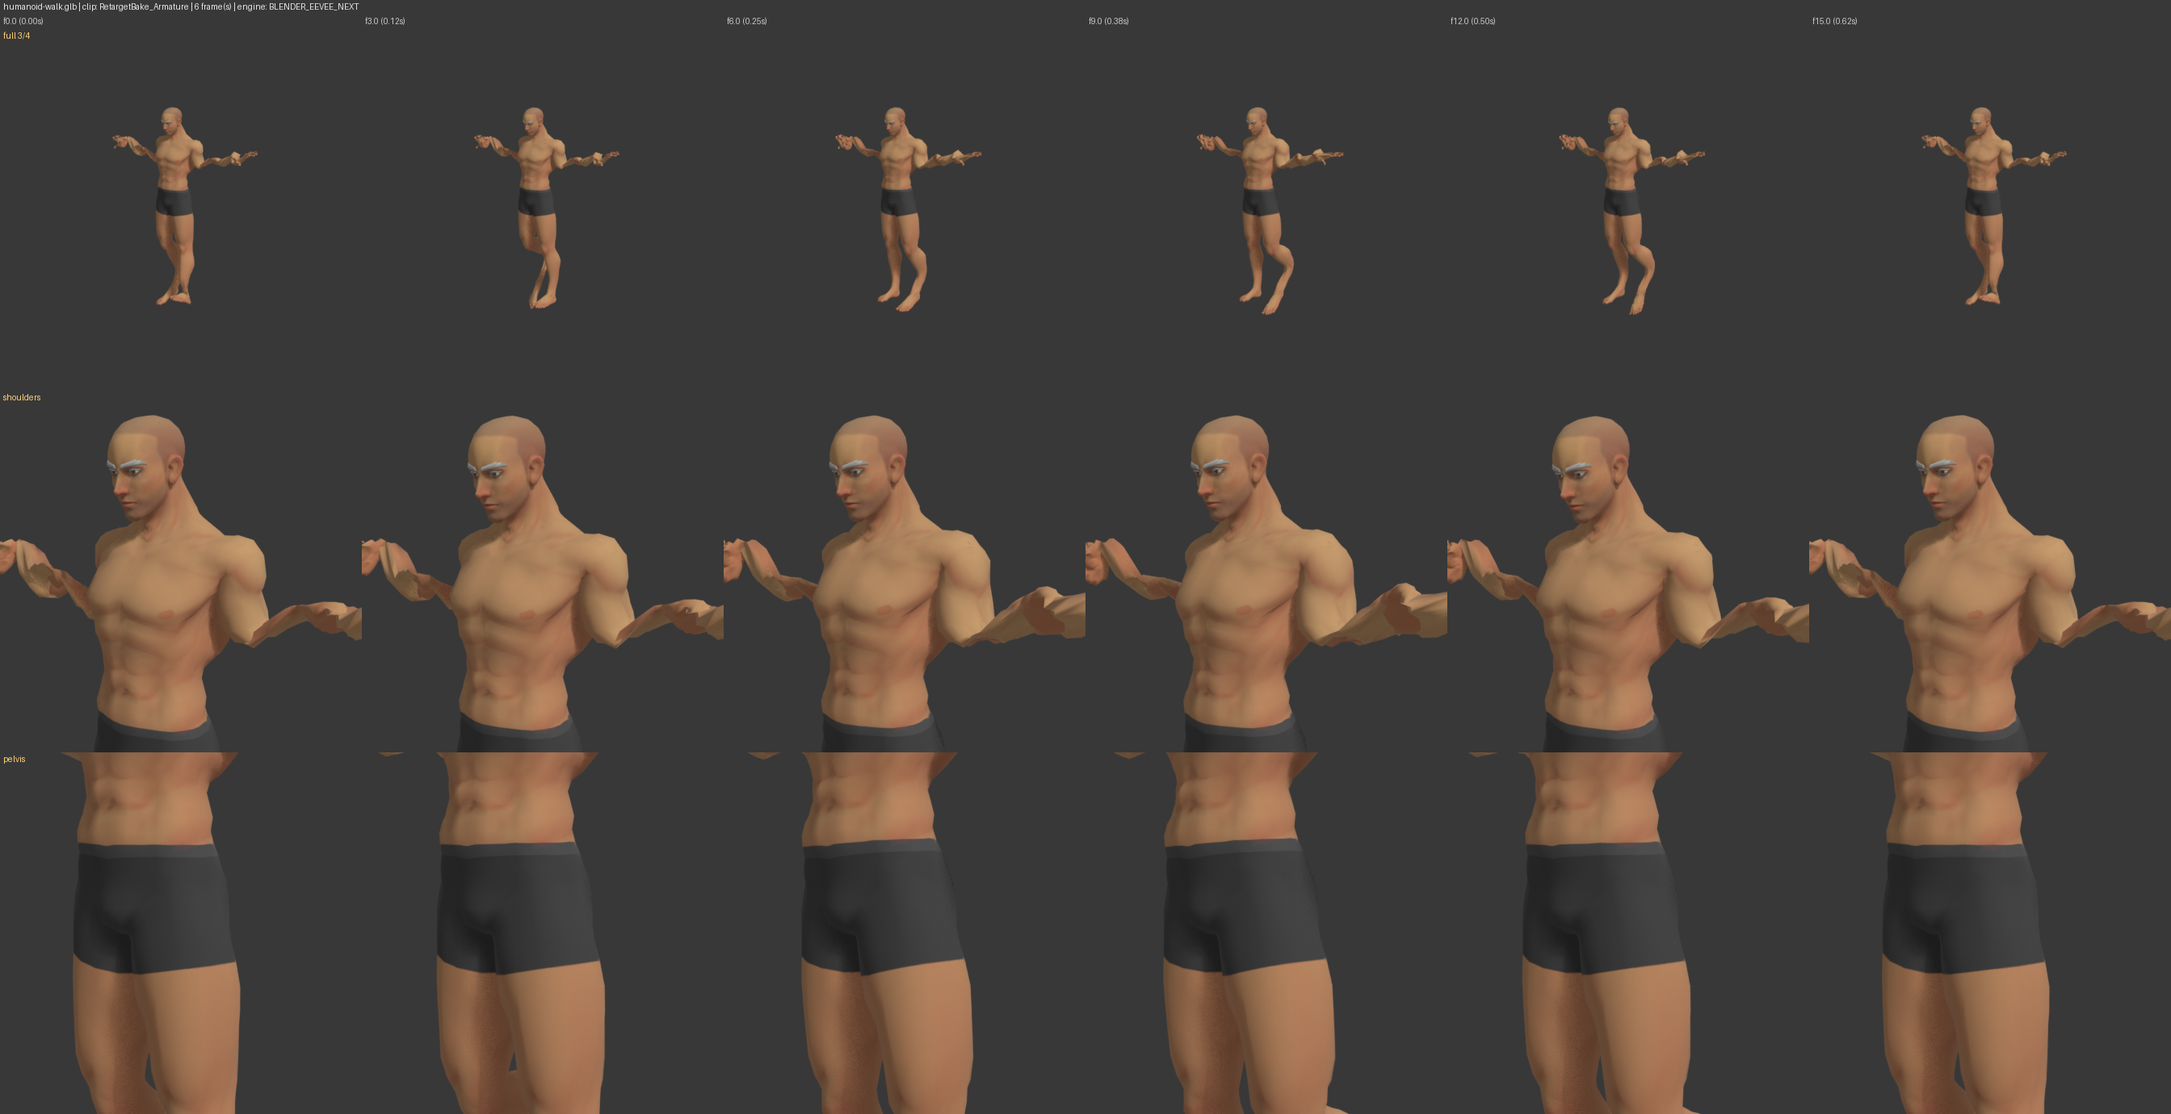
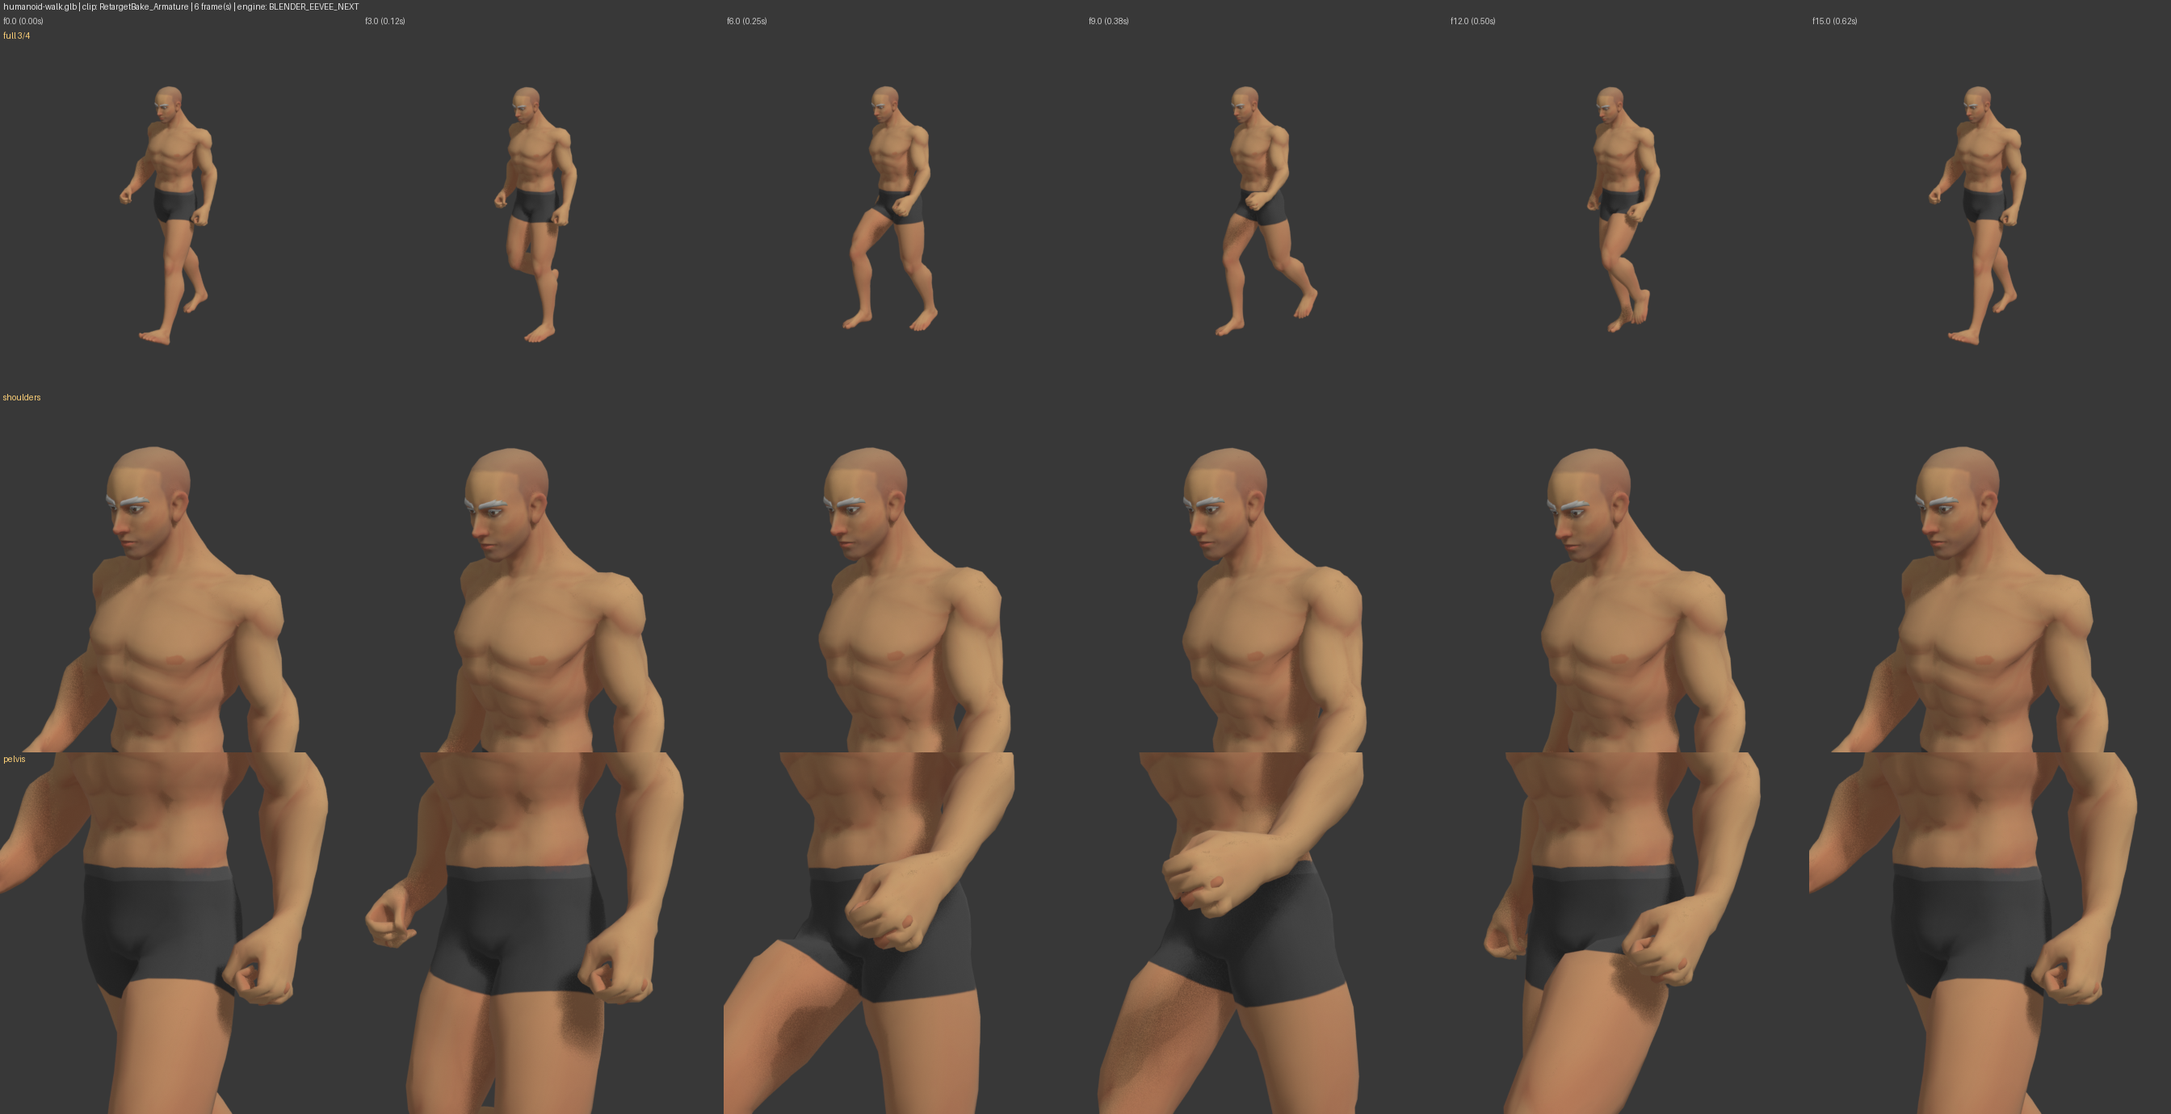
fix(spikes): P0-T4 round 2 - retarget harness bugs root-caused, M2M unblocked
Maintainer review flagged ostrich knees, static upper bodies, and a
Mesh2Motion mapping blocker (generic bone_N names). All retarget
symptoms were harness bugs, not UniRig: the bake rotated bones about
rest heads with absolute placement, detaching parent chains (measured
knee flexion ~0 at every frame vs 0.4-0.97 in the source). Fixed by
world-orientation-only transfer riding the parent chain, name-based
mapping, and facing-yaw conjugation. Post-fix the humanoid walk is
anatomically correct (flexion 0.34-0.95 matching source).

New tools/rename-bones.py maps bone_N onto M2M/UE semantic names by
bind position (side-verified against the factory rig; mirror tie-break
guarded) -> out/*-rigged-named.glb unblock M2M Auto-Map. Evidence
sheets regenerated; REPORT re-attributes the forearm-crumple claim away
from UniRig and documents the UAL-vs-M2M clip provenance (D-013
unchanged).

Task: P0-T4

diff --git a/spikes/autorig/render/retarget-bpy.py b/spikes/autorig/render/retarget-bpy.py
@@ -123,18 +123,25 @@ def main():
     tgt_h, _ = skeleton_height_and_base(tgt_arm)
     src_h, _ = skeleton_height_and_base(src_arm)
 
-    # nearest-source mapping per target bone
+    # name-first mapping (works when the rig was renamed via tools/rename-bones.py
+    # — exact matches carry correct left/right sides); nearest-position fallback
+    # for bones that kept generic names
     mapping = {}
+    src_names = set(src_norm.keys())
     for tname, tpos in tgt_norm.items():
+        if tname in src_names:
+            mapping[tname] = (tname, 0.0)
+            continue
         best, bestd = None, 1e9
         for sname, spos in src_norm.items():
             d = (tpos - spos).length
             if d < bestd:
                 best, bestd = sname, d
         mapping[tname] = (best, bestd)
-    print('bone mapping (target <- source, normalized dist):')
+    named = sum(1 for _, (s, d) in mapping.items() if d == 0.0)
+    print(f'bone mapping: {named} by name, {len(mapping) - named} by position:')
     for tname, (sname, d) in sorted(mapping.items()):
-        print(f'  {tname:24s} <- {sname:20s} {d:.3f}')
+        print(f'  {tname:24s} <- {sname:20s} {"NAME" if d == 0.0 else f"{d:.3f}"}')
 
     # hierarchy order: parents before children
     order = []
@@ -164,6 +171,32 @@ def main():
     if src_root is not None:
         needed_src.add(src_root)
     needed_src = sorted(needed_src)
+
+    # facing correction: world-space deltas only transfer correctly if both
+    # skeletons face the same way; otherwise knees hinge backward ("ostrich
+    # legs"). Detect forward via foot->toe(ball) and conjugate deltas by the
+    # yaw difference.
+    def facing_yaw(arm, rest):
+        for foot, ball in (('foot_l', 'ball_l'), ('foot_r', 'ball_r')):
+            if foot in rest and ball in rest:
+                f = rest[ball].translation - rest[foot].translation
+                if f.length > 1e-6:
+                    return math.atan2(f.x, f.y)
+        return None
+
+    yaw_s = facing_yaw(src_arm, src_rest)
+    yaw_t = facing_yaw(tgt_arm, tgt_rest)
+    if yaw_s is None or yaw_t is None:
+        # assets in this spike share glTF orientation conventions: the measured
+        # humanoid correction is ~0 deg, so skeletons lacking named feet get none
+        yaw_fix = 0.0
+        print('facing: foot/ball names missing on one side; assuming 0 deg correction')
+    else:
+        yaw_fix = yaw_t - yaw_s
+        print(f'facing: source yaw {math.degrees(yaw_s):.0f} deg, target yaw {math.degrees(yaw_t):.0f} deg '
+              f'-> conjugating deltas by {math.degrees(yaw_fix):.0f} deg')
+    R_fix = Matrix.Rotation(yaw_fix, 4, 'Z')
+    R_fix_inv = R_fix.inverted()
     for i in range(n):
         f = f0 + (f1 - f0) * (i / (n - 1))
         scene.frame_set(int(round(f)))
@@ -177,40 +210,34 @@ def main():
             spb = src_eval.pose.bones[sname]
             src_pose_w[sname] = (src_eval.matrix_world @ spb.matrix).copy()
 
-        # world rotation deltas from source, applied to target rests
+        # transfer WORLD ORIENTATION per bone (conjugated into the target's
+        # facing frame); the head position rides the already-updated parent
+        # chain — rotating about rest heads + absolute placement detaches
+        # children and produced rigid straight legs (zero knee flexion)
+        inv_arm = tgt_arm.matrix_world.inverted()
         for tname in order:
             sname, _d = mapping[tname]
-            s_pose_w = src_pose_w[sname]
-            s_rest_w = src_rest[sname]
-            delta = s_pose_w @ s_rest_w.inverted()
-            # rotation-only delta; keep target bone position from its own rest
-            delta_rot = delta.to_quaternion().to_matrix().to_4x4()
-            t_rest_w = tgt_rest[tname]
-            # compose: rotate target rest about ITS OWN head position
-            head = t_rest_w.translation
-            desired_w = Matrix.Translation(head) @ delta_rot @ Matrix.Translation(-head) @ t_rest_w
+            delta = src_pose_w[sname] @ src_rest[sname].inverted()
+            delta_rot = R_fix @ delta.to_quaternion().to_matrix().to_4x4() @ R_fix_inv
+            t_rest_rot = tgt_rest[tname].to_quaternion().to_matrix().to_4x4()
+            desired_rot_w = delta_rot @ t_rest_rot
+
+            bpy.context.view_layer.update()  # parents already posed this frame
+            tpb = tgt_arm.pose.bones[tname]
+            cur_w = tgt_arm.matrix_world @ tpb.matrix
+            desired_w = Matrix.Translation(cur_w.translation) @ desired_rot_w
             if tname == tgt_root and src_root is not None:
                 # root motion: translate by source root world delta, scaled
-                s_root_pose = src_pose_w[src_root]
-                s_root_rest = src_rest[src_root]
-                dt = (s_root_pose.translation - s_root_rest.translation) * (tgt_h / src_h)
-                desired_w = Matrix.Translation(dt) @ desired_w
-            tpb = tgt_arm.pose.bones[tname]
-            tpb.matrix = tgt_arm.matrix_world.inverted() @ desired_w
-            bpy.context.view_layer.update()
+                dt = (src_pose_w[src_root].translation - src_rest[src_root].translation) * (tgt_h / src_h)
+                desired_w = Matrix.Translation(R_fix @ dt) @ Matrix.Translation(tgt_rest[tname].translation) @ desired_rot_w
+            tpb.matrix = inv_arm @ desired_w
 
-        if i == n // 2:  # debug: is motion actually reaching the target?
-            probe_t = max(mapping.items(), key=lambda kv: 'arm' in kv[1][0])[0]
-            probe_s = mapping[probe_t][0]
-            dq = (src_pose_w[probe_s] @ src_rest[probe_s].inverted()).to_quaternion()
-            tq = tgt_arm.pose.bones[probe_t].rotation_quaternion
-            print(f'DEBUG mid-frame {probe_t}<-{probe_s}: delta=({dq.w:.3f},{dq.x:.3f},{dq.y:.3f},{dq.z:.3f}) '
-                  f'target_quat=({tq.w:.3f},{tq.x:.3f},{tq.y:.3f},{tq.z:.3f})')
-
+        bpy.context.view_layer.update()
         for tname in order:
             tpb = tgt_arm.pose.bones[tname]
             tpb.keyframe_insert('rotation_quaternion', frame=i)
-            tpb.keyframe_insert('location', frame=i)
+            if tname == tgt_root:
+                tpb.keyframe_insert('location', frame=i)
 
     # remove source armature and purge every action except the bake, so the
     # exported glb contains exactly one animation with a predictable name

diff --git a/spikes/autorig/tools/rename-bones.py b/spikes/autorig/tools/rename-bones.py
@@ -1,0 +1,130 @@
+# P0-T4: rename UniRig's generic bone_N joints to Mesh2Motion/UE-style semantic
+# names by matching bind-pose positions against the reference skeleton in the
+# clip library. Unblocks Mesh2Motion Auto-Map (name matching) and name-based
+# retargeting. bpy implementation (the deno/glTF-Transform variant hit a Deno
+# npm-cache issue; bpy is the proven path in this env and auto-syncs vertex
+# group names with bone renames).
+#
+#   python tools/rename-bones.py --rigged out/humanoid-rigged.glb \
+#       --clip anim/human-base-animations.glb \
+#       --out out/humanoid-rigged-named.glb --map work/humanoid-bonemap.json
+import argparse
+import json
+import os
+import sys
+
+import bpy
+from mathutils import Vector
+
+THRESHOLD = 0.12  # normalized (unit-height) acceptance distance
+
+
+def parse_args():
+    p = argparse.ArgumentParser()
+    p.add_argument('--rigged', required=True)
+    p.add_argument('--clip', required=True)
+    p.add_argument('--out', required=True)
+    p.add_argument('--map', required=True)
+    return p.parse_args()
+
+
+def import_glb(path):
+    before = set(bpy.data.objects)
+    bpy.ops.import_scene.gltf(filepath=path)
+    return [o for o in bpy.data.objects if o not in before]
+
+
+def find_armature(objs):
+    return next((o for o in objs if o.type == 'ARMATURE'), None)
+
+
+def norm_heads(arm):
+    pts = {}
+    for b in arm.data.bones:
+        pts[b.name] = (arm.matrix_world @ b.matrix_local).translation.copy()
+    ys = [p.z for p in pts.values()]  # Blender Z-up after glTF import
+    xs = [p.x for p in pts.values()]
+    zs = [p.y for p in pts.values()]
+    h = max(1e-6, max(ys) - min(ys))
+    cx = sum(xs) / len(xs)
+    cz = sum(zs) / len(zs)
+    y0 = min(ys)
+    return {n: Vector(((p.x - cx) / h, (p.y - cz) / h, (p.z - y0) / h)) for n, p in pts.items()}
+
+
+def assign(tgt, ref, mirror_x):
+    cands = []
+    for tn, tp0 in tgt.items():
+        tp = Vector((-tp0.x, tp0.y, tp0.z)) if mirror_x else tp0
+        for rn, rp in ref.items():
+            cands.append(((tp - rp).length, tn, rn))
+    cands.sort(key=lambda c: c[0])
+    used_t, used_r, pairs, cost = set(), set(), {}, 0.0
+    for d, tn, rn in cands:
+        if d > THRESHOLD:
+            break
+        if tn in used_t or rn in used_r:
+            continue
+        used_t.add(tn)
+        used_r.add(rn)
+        pairs[tn] = (rn, d)
+        cost += d
+    score = (cost / len(pairs) - len(pairs) * 0.01) if pairs else 1e9
+    return pairs, score
+
+
+def main():
+    args = parse_args()
+    bpy.ops.wm.read_factory_settings(use_empty=True)
+
+    tgt_objs = import_glb(args.rigged)
+    tgt_arm = find_armature(tgt_objs)
+    if tgt_arm is None:
+        sys.exit('ERROR: rigged glb has no armature')
+
+    clip_objs = import_glb(args.clip)
+    ref_arm = find_armature(clip_objs)
+    if ref_arm is None:
+        sys.exit('ERROR: clip glb has no armature')
+
+    tgt = norm_heads(tgt_arm)
+    ref = norm_heads(ref_arm)
+    plain, plain_score = assign(tgt, ref, False)
+    mirrored, mirrored_score = assign(tgt, ref, True)
+    # near-symmetric characters tie the two hypotheses to float noise; verified
+    # empirically (asymmetric stump case) that the mirror guess can invert
+    # left/right - so require a clear margin before accepting the mirror
+    pairs, mirror = (mirrored, True) if mirrored_score < plain_score - 0.005 else (plain, False)
+    print(f'mapping: {"X-MIRRORED" if mirror else "direct"} '
+          f'({len(pairs)}/{len(tgt)} joints matched; '
+          f'plain={len(plain)}@{plain_score:.3f} mirrored={len(mirrored)}@{mirrored_score:.3f})')
+
+    # remove the clip's objects entirely before renaming/exporting
+    for o in clip_objs:
+        bpy.data.objects.remove(o, do_unlink=True)
+    for a in list(bpy.data.actions):
+        bpy.data.actions.remove(a)
+
+    mapping = {}
+    for tn, (rn, d) in sorted(pairs.items()):
+        mapping[tn] = {'newName': rn, 'dist': round(d, 4)}
+        print(f'  {tn:16s} -> {rn:20s} ({d:.3f})')
+    # rename bones; Blender syncs vertex groups on bone rename only via UI ops,
+    # so rename vertex groups explicitly for every mesh using this armature
+    meshes = [o for o in bpy.data.objects if o.type == 'MESH']
+    for tn, info in mapping.items():
+        for m in meshes:
+            vg = m.vertex_groups.get(tn)
+            if vg is not None:
+                vg.name = info['newName']
+        tgt_arm.data.bones[tn].name = info['newName']
+
+    os.makedirs(os.path.dirname(args.map) or '.', exist_ok=True)
+    with open(args.map, 'w') as f:
+        json.dump({'mirrored': mirror, 'mapping': mapping}, f, indent=2)
+    bpy.ops.export_scene.gltf(filepath=args.out, export_format='GLB', export_animations=False)
+    print(f'named glb written: {args.out} · map: {args.map}')
+
+
+if __name__ == '__main__':
+    main()

diff --git a/spikes/autorig/REPORT.md b/spikes/autorig/REPORT.md
@@ -19,13 +19,21 @@ spike retarget; the stylized Giant walks at the legs but shreds at the arms.
 | stylized (Quaternius Giant, 3.9 m chunky) | 3,158 v / 3,812 t | **22** | legs/hips walk plausibly; arm/torso boundary shreds mid-cycle |
 | asymmetric (humanoid, left forearm→stump) | 8,483 v / 14,318 t | **34** | **adapted to the missing limb** — no hallucinated mirror arm, stump deforms plausibly, gait intact (D-008 founding-constraint evidence) |
 
-**Retarget caveat (important for the taste call):** animation evidence uses our own
-quick position-mapped retarget (`render/retarget-bpy.py`, nearest-bind-position bone
-mapping + world rotation-delta baking of the Mesh2Motion CC0 Walk clip). It ignores
-bone-roll/twist axes, so **forearm crumpling is partly harness artifact, not purely
-UniRig skinning**. Judge shoulders/hips/torso from the sheets; judge overall quality
-interactively on `out/*-rigged.glb` (bind pose + pose bones by hand), and optionally
-re-run through Mesh2Motion's proper retarget page (`anim/MESH2MOTION-RETARGET.md`).
+**Retarget harness post-mortem (2026-07-12, after maintainer review):** the first
+evidence round showed near-static upper bodies, crumpled forearms, and backward
+("ostrich") knees. All three were **bugs in our spike retarget, not UniRig**: the
+original implementation rotated each bone about its *rest* head and wrote absolute
+placements, detaching children from the parent chain — measured knee flexion was ~zero
+at every frame while the source clip flexed 0.4–0.97. Fixed by transferring world
+*orientations* only (heads ride the updated parent chain), name-based bone mapping via
+`tools/rename-bones.py` (sides verified against the factory rig), and facing-yaw
+conjugation (measured ~0° for these assets). Post-fix, the humanoid walks with correct
+knee hinge (flexion 0.34–0.95, matching source), natural arm swing, and clean shoulder
+deformation — and the earlier "forearm weight weakness" attributed to UniRig largely
+evaporated. Remaining honest weakness: the Giant's arm/torso boundary still shreds
+mid-cycle (sparse 22-bone prediction + human clip force-fit + rough arm weights).
+Judge interactively on `out/*-rigged-named.glb` (semantic bone names — these are also
+the files to upload to Mesh2Motion's retarget page, which needs names for Auto-Map).
 
 ## Sidecar-budget numbers (per mesh, RTX 3090, seed 42)
 
@@ -93,25 +101,44 @@ remains the first thing to try if the maintainer scores this <2-of-3.
 
 ## Failure-mode catalog (seeds tier-1/tier-2 repair design)
 
-1. Forearm/wrist weight quality degrades on stylized+thin geometry (even discounting the
-   retarget twist artifact, the Giant's arm boundary weights are rough).
+1. The Giant's arm/torso boundary weights are rough — visible shredding under
+   animation even after the harness fixes (sparse bones + chunky proportions).
+   (Retracted from round 1: humanoid forearm crumple — that was our harness bug.)
 2. Sparse predictions on chunky characters (22 bones) → large rigid regions; fine for
    sprites at 128 px, limits close-up fidelity.
-3. Finger bones predicted for the humanoid but not articulated by our clip mapping —
-   harmless for sprite-scale work.
+3. Generic `bone_N` names break name-based tooling downstream (Mesh2Motion Auto-Map,
+   retarget profiles) → the production adapter needs a semantic-naming pass; our
+   position-based `tools/rename-bones.py` (side-verified, mirror-guarded) is the seed.
 4. Model-output NaN is a real, silent failure class → adapter-level NaN/row-sum
    validation is mandatory (tier-1 repair candidate: auto-retry with different seed).
 5. Merge-stage weight renormalization needs guarding when inputs contain
    zero-weight vertices.
+6. Left/right assignment on near-symmetric characters is genuinely ambiguous from
+   geometry alone (our mirror-detection tied to float noise until anchored to the
+   factory rig) — retarget profiles should record side anchors explicitly.
 
 ## Maintainer inspection (the ≥2-of-3 call)
 
-- Contact sheets: `spikes/autorig/evidence/{humanoid,stylized,asymmetric}-walk-sheet.png`
-- Rigged characters (bind pose, pose them by hand in Blender):
-  `spikes/autorig/out/{humanoid,stylized,asymmetric}-rigged.glb`
+- Contact sheets (regenerated 2026-07-12 with the fixed retarget):
+  `spikes/autorig/evidence/{humanoid,stylized,asymmetric}-walk-sheet.png`.
+  How to read them: columns = 6 evenly spaced frames of the Walk clip; row 1 = full
+  figure 3/4 view; rows 2–3 = fixed close-up crops framed on shoulders and pelvis (the
+  roadmap's two trouble joints).
+- Rigged characters with semantic bone names (pose by hand in Blender, or upload to
+  Mesh2Motion): `spikes/autorig/out/{humanoid,stylized,asymmetric}-rigged-named.glb`
 - Animated: `spikes/autorig/out/*-walk.glb` (single clip `RetargetBake_Armature`)
-- Optional better retarget: upload a rigged glb at Mesh2Motion's retarget page — steps
-  in `anim/MESH2MOTION-RETARGET.md`
+- Best interactive judge: Mesh2Motion retarget page with the **-named** glbs — steps
+  and per-character mapping notes in `anim/MESH2MOTION-RETARGET.md`
+
+## Clip-source note (Quaternius UAL vs Mesh2Motion)
+
+No dependency decision changed: **D-013 still bundles Quaternius UAL free tiers as the
+primary animation pack**; Mesh2Motion remains the BOM's explicitly-cleared alternate
+(art CC0, code MIT) and is the harness the roadmap itself names for this spike. The
+spike used M2M clips because they are directly downloadable from the repo without an
+account (UAL's free tier had no signup-free URL — provenance in `anim/NOTES.md`), and
+both packs target the same UE-style 66-joint humanoid convention, so the retarget
+profile work transfers.
 
 ## Reproduce
 

diff --git a/spikes/autorig/anim/MESH2MOTION-RETARGET.md b/spikes/autorig/anim/MESH2MOTION-RETARGET.md
@@ -1,5 +1,17 @@
 # P0-T4 — Mesh2Motion as a retarget harness for externally rigged models
 
+> **UPDATE (2026-07-12): upload the `*-rigged-named.glb` files, not `*-rigged.glb`.**
+> UniRig emits generic `bone_N` names that defeat M2M's name-based Auto-Map (as the
+> maintainer found). `tools/rename-bones.py` now maps our predicted joints onto the
+> M2M/UE-style names by bind-pose position (side-verified against the factory rig), so:
+> - `out/humanoid-rigged-named.glb` — 51/52 bones semantically named; Auto-Map should be ~automatic
+> - `out/asymmetric-rigged-named.glb` — 28/34 named (stump side has fewer; `thigh_r` kept a
+>   generic name — map it by hand to `thigh_r` in the UI if Auto-Map misses it)
+> - `out/stylized-rigged-named.glb` — 12/22 named (giant proportions; arms kept generic names —
+>   hand-map or leave undriven)
+> The 52-vs-66 bone-count difference is fine: M2M's extra bones (fingers, leaf tips) simply
+> stay unmapped and that motion is dropped.
+
 **Verdict: YES — usable.** Mesh2Motion has a dedicated, separate retarget page ("Use Your
 Rigged Model") that imports an externally rigged model with its skin/armature preserved, maps
 its bones to a Mesh2Motion source skeleton, and exports the model with retargeted clips as one
